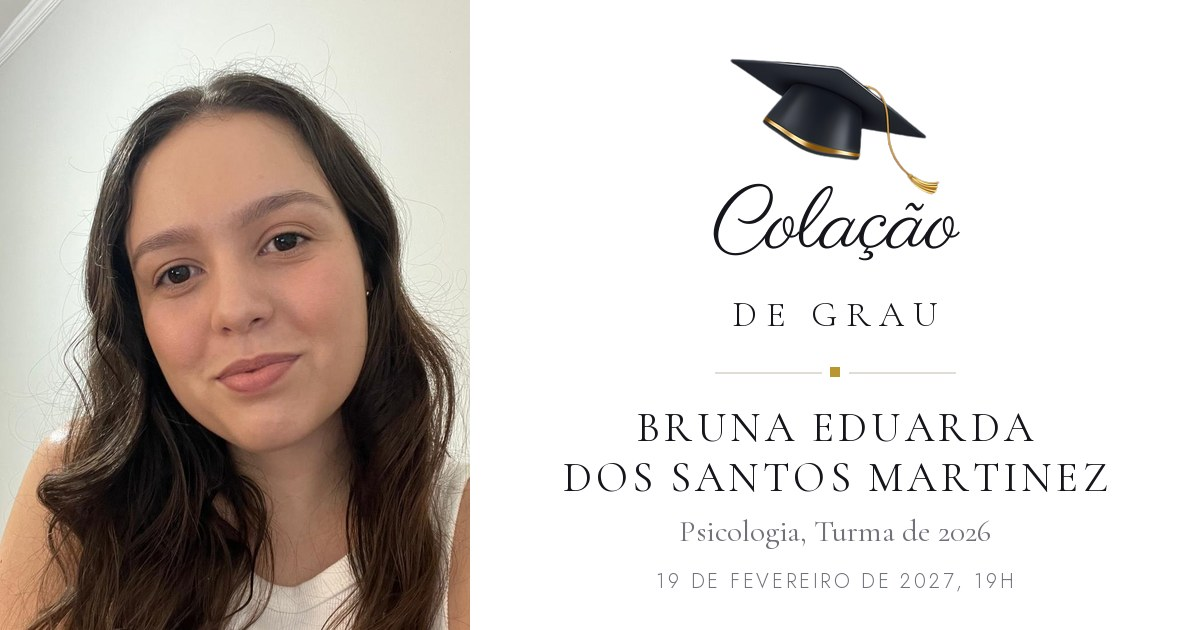
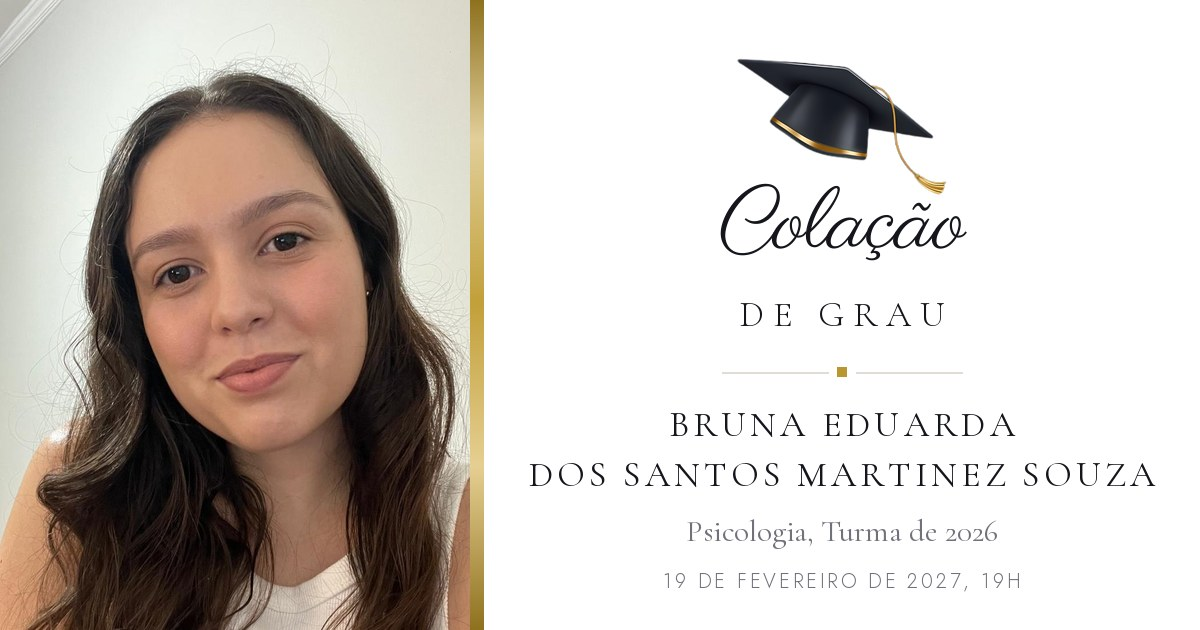
Remocao de secoes da pagina

diff --git a/index.html b/index.html
@@ -1,11 +1,11 @@
-<!-- Convite de formatura de Bruna Eduarda. URL de producao: https://convite-bruna-psi.onrender.com -->
+<!-- Convite de formatura de Bruna Eduarda. Ao publicar, troque a URL https://convite-bruna-psi.onrender.com pelas tags og: e canonical pela URL real do site. -->
 <!DOCTYPE html>
 <html lang="pt-BR">
 <head>
 <meta charset="utf-8">
 <meta name="viewport" content="width=device-width, initial-scale=1">
-<title>Convite de Formatura | Bruna Eduarda dos Santos Martinez</title>
-<meta name="description" content="Colação de Grau de Bruna Eduarda dos Santos Martinez, Psicologia, FAI. Dia 19 de fevereiro de 2027, em Santa Rita do Sapucaí.">
+<title>Convite de Formatura | Bruna Eduarda dos Santos Martinez Souza</title>
+<meta name="description" content="Colação de Grau de Bruna Eduarda dos Santos Martinez Souza, Psicologia, FAI. Dia 19 de fevereiro de 2027, em Santa Rita do Sapucaí.">
 <meta name="theme-color" content="#ffffff">
 <link rel="canonical" href="https://convite-bruna-psi.onrender.com/">
 
@@ -21,7 +21,7 @@
 <meta property="og:image:type" content="image/jpeg">
 <meta property="og:image:width" content="1200">
 <meta property="og:image:height" content="630">
-<meta property="og:image:alt" content="Convite da Colação de Grau de Bruna Eduarda dos Santos Martinez">
+<meta property="og:image:alt" content="Convite da Colação de Grau de Bruna Eduarda dos Santos Martinez Souza">
 <meta name="twitter:card" content="summary_large_image">
 <meta name="twitter:title" content="Colação de Grau de Bruna Eduarda">
 <meta name="twitter:description" content="Psicologia, Turma de 2026. Dia 19 de fevereiro de 2027, às 19h, em Santa Rita do Sapucaí.">
@@ -117,16 +117,7 @@ p{line-height:1.8}
   text-align:center;padding:16px 8px 20px;line-height:1.3;
 }
 .retrato{background:var(--creme);padding-top:58px;padding-bottom:58px}
-.retrato .polaroide,.despedida .polaroide{max-width:330px;margin-inline:auto}
-.retrato .polaroide{transform:rotate(-1.6deg)}
-.despedida .polaroide{transform:rotate(1.4deg)}
-
-.tira{display:flex;gap:10px;justify-content:center;margin-top:6px}
-.tira figure{margin:0;background:#fff;padding:9px 9px 26px;box-shadow:0 8px 24px rgba(20,22,28,.14);flex:1;min-width:0}
-.tira figure img{width:100%;display:block;aspect-ratio:1;object-fit:cover}
-.tira figure:nth-child(1){transform:rotate(-3deg)}
-.tira figure:nth-child(2){transform:translateY(-10px) rotate(1deg);z-index:2}
-.tira figure:nth-child(3){transform:rotate(3.5deg)}
+.retrato .polaroide{max-width:330px;margin-inline:auto;transform:rotate(-1.6deg)}
 
 /* programacao */
 .data-grande{
@@ -147,11 +138,6 @@ p{line-height:1.8}
 .botao:hover{opacity:.82}
 a:focus-visible{outline:2px solid var(--ouro);outline-offset:3px}
 
-/* fotos */
-.faixa{background:var(--creme)}
-.frase-script{font-family:'Parisienne',cursive;font-size:clamp(34px,10vw,46px);line-height:1.05;margin:0}
-.frase-caps{font-family:'Cormorant Garamond',Georgia,serif;font-size:clamp(22px,6vw,28px);letter-spacing:.26em;text-transform:uppercase;margin:4px 0 40px}
-
 /* contagem */
 .contagem{display:grid;grid-template-columns:repeat(4,1fr);gap:4px;margin-top:8px}
 .contagem div{padding:6px 0}
@@ -159,15 +145,9 @@ a:focus-visible{outline:2px solid var(--ouro);outline-offset:3px}
 .contagem small{font-size:9.5px;letter-spacing:.2em;text-transform:uppercase;color:var(--suave);display:block;margin-top:10px}
 .contagem div+div{border-left:1px solid var(--linha)}
 
-/* cartoes */
-.cartao{border:1px solid var(--linha);padding:34px 26px;text-align:center}
-.cartao h3{font-family:'Cormorant Garamond',Georgia,serif;font-weight:400;font-size:20px;letter-spacing:.24em;text-transform:uppercase;margin:0 0 14px}
-.cartao p{margin:0;font-size:14.5px;color:var(--suave);max-width:38ch;margin-inline:auto}
-.cartao+.cartao{margin-top:18px}
-
 /* final */
 .despedida{background:var(--creme)}
-.despedida .script{font-size:clamp(46px,13vw,62px);margin-top:44px}
+.despedida .script{font-size:clamp(46px,13vw,62px);margin-top:0}
 .rodape{font-size:11px;letter-spacing:.22em;text-transform:uppercase;color:var(--suave);text-align:center;padding:42px 24px;line-height:2}
 </style>
 </head>
@@ -179,8 +159,7 @@ a:focus-visible{outline:2px solid var(--ouro);outline-offset:3px}
     <p class="rotulo fade d1" style="margin-top:26px">Temos a alegria de convidar você para a</p>
     <h1 class="script fade d1">Colação</h1>
     <p class="titulo-2 fade d1">de Grau</p>
-    <p class="rotulo fade d2">Em homenagem a</p>
-    <p class="nome formanda fade d2">Bruna Eduarda<br>dos Santos Martinez</p>
+    <p class="nome formanda fade d2">Bruna Eduarda<br>dos Santos Martinez Souza</p>
     <p class="curso fade d3">Bacharelado em Psicologia</p>
     <div class="divisor fade d3"><i></i><b></b><i></i></div>
     <p class="instituicao fade d3">Turma de 2026<br>FAI Centro de Ensino Superior<br>em Gestão, Tecnologia e Educação</p>
@@ -188,7 +167,7 @@ a:focus-visible{outline:2px solid var(--ouro);outline-offset:3px}
 
   <section class="retrato">
     <figure class="polaroide">
-      <img src="assets/hero.jpg" alt="Bruna Eduarda dos Santos Martinez" width="900" height="1200">
+      <img src="assets/hero.jpg" alt="Bruna Eduarda dos Santos Martinez Souza" width="900" height="1200">
       <figcaption>Cinco anos de caminhada</figcaption>
     </figure>
   </section>
@@ -214,16 +193,6 @@ a:focus-visible{outline:2px solid var(--ouro);outline-offset:3px}
     </div>
   </section>
 
-  <section class="faixa centro">
-    <p class="frase-script">O diploma</p>
-    <p class="frase-caps">está garantido</p>
-    <div class="tira">
-      <figure><img src="assets/p1.jpg" alt="Bruna sorrindo"></figure>
-      <figure><img src="assets/p2.jpg" alt="Bruna em retrato"></figure>
-      <figure><img src="assets/p3.jpg" alt="Bruna no Natal"></figure>
-    </div>
-  </section>
-
   <section class="centro">
     <p class="rotulo">Mal posso esperar para celebrar com você</p>
     <div class="contagem" id="contagem">
@@ -234,27 +203,12 @@ a:focus-visible{outline:2px solid var(--ouro);outline-offset:3px}
     </div>
   </section>
 
-  <section>
-    <div class="cartao">
-      <h3>Traje</h3>
-      <p>Social completo. Vista o seu melhor e venha fazer parte desse dia com a gente.</p>
-    </div>
-    <div class="cartao">
-      <h3>Presentes</h3>
-      <p>Sua presença já é o maior presente. Quem quiser abraçar essa nova fase de perto, é só falar com a gente.</p>
-    </div>
-  </section>
-
   <section class="despedida centro">
-    <figure class="polaroide">
-      <img src="assets/final.jpg" alt="Bruna Eduarda" width="900" height="1125">
-      <figcaption>Até lá</figcaption>
-    </figure>
     <p class="script">Obrigada</p>
     <p class="rotulo" style="margin:14px 0 0">Por dividir comigo<br>cada passo até aqui</p>
   </section>
 
-  <p class="rodape">Bruna Eduarda dos Santos Martinez<br>Psicologia, Turma de 2026</p>
+  <p class="rodape">Bruna Eduarda dos Santos Martinez Souza<br>Psicologia, Turma de 2026</p>
 </main>
 
 <script>

diff --git a/README.md b/README.md
@@ -1,4 +1,4 @@
-# Convite de Formatura | Bruna Eduarda dos Santos Martinez
+# Convite de Formatura | Bruna Eduarda dos Santos Martinez Souza
 
 Site estático, sem build. Basta servir a pasta como está.
 
@@ -13,7 +13,7 @@ Site estático, sem build. Basta servir a pasta como está.
 ## Antes de divulgar o link
 
 Abra o `index.html` e troque todas as ocorrências de
-`https://convite-bruna.onrender.com` pela URL real do site.
+`https://convite-bruna-psi.onrender.com` pela URL real do site.
 São as tags `og:url`, `og:image`, `twitter:image` e `canonical`.
 O preview do WhatsApp só funciona com URL absoluta e em HTTPS.
 
